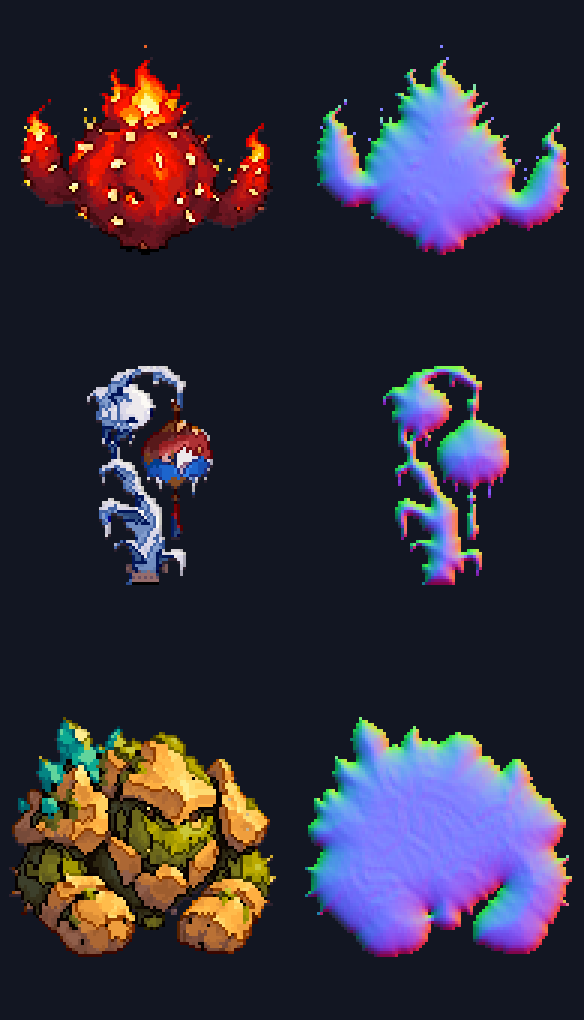
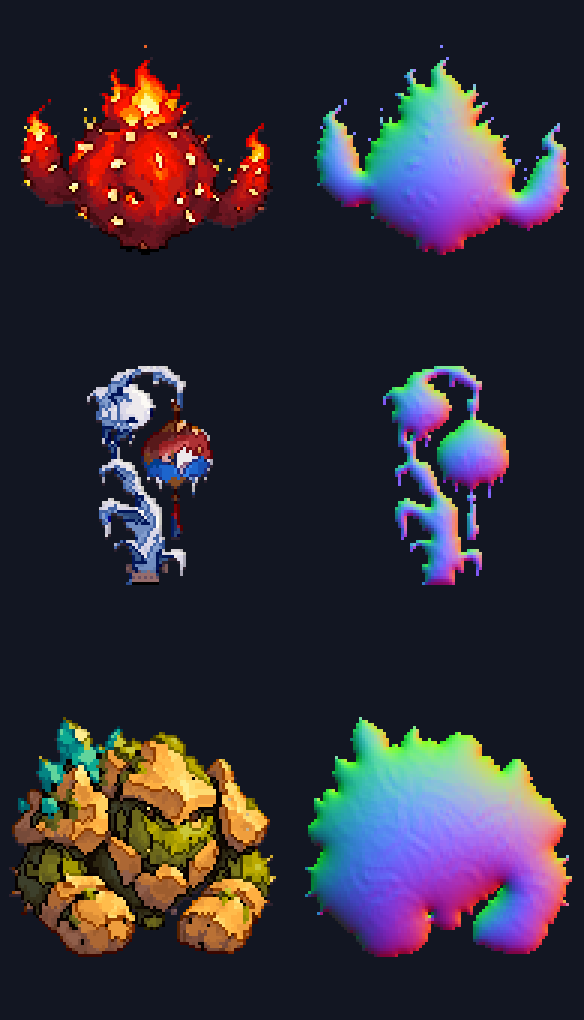
fix: 조명 시험 — 빛 · 그림자가 직선으로 끊기던 것을 막 부풀리기 높이 · 바이어 섞음으로
- tools/pixel/big/normalmap.mjs(heightOf · normalsOf · shade) 공용으로 빼고 normallab 이 씀
- 조사 문서 · 비교 그림(ember_smooth_compare.png) 갱신

diff --git a/docs/superpowers/specs/2026-10-22-v2-normal-map-lighting-research.md b/docs/superpowers/specs/2026-10-22-v2-normal-map-lighting-research.md
@@ -5,7 +5,8 @@
 
 ## 1. 결론
 
-- **적용 가능하다.** 우리 식물 그림(96×112 도트 · 대기 64장 + 깜빡임 4장 · 앞뒤 두 층)에서 노멀맵을 **그림만으로 바로** 만들 수 있다(새 그림 · 내려받기 없음). 실루엣 안쪽까지의 거리로 '부푼 높이'를 만들고 기울기를 재는 방식이라 45종 · 생장 3단계에 같은 도구가 그대로 먹힌다.
+- **적용 가능하다.** 우리 식물 그림(96×112 도트 · 대기 64장 + 깜빡임 4장 · 앞뒤 두 층)에서 노멀맵을 **그림만으로 바로** 만들 수 있다(새 그림 · 내려받기 없음). 실루엣 안을 막처럼 부풀린 높이(`tools/pixel/big/normalmap.mjs`)로 기울기를 재는 방식이라 45종 · 생장 3단계에 같은 도구가 그대로 먹힌다.
+  - 처음엔 실루엣 거리로 둥글렸는데 가운데가 평평하고 가장자리만 가팔라 빛 · 그림자가 직선으로 뚝 끊겼음(2026-10-22 사용자 "앰버캑터 뭔가 그림자랑 빛이 너무 직선으로 뚝 끊겨") → 막 부풀리기(포아송) + 빛 단계를 바이어 무늬로 섞어 부드럽게.
 - **사양 부담은 작다 — 단, 늘 켜 두는 빛은 미리 굽고, 순간 빛만 실행 중에 계산한다.**
   - 늘 켜진 빛(엠버캑터 불 · 초롱바인 등불 · 번개 · 결정)은 64장 그림에 **미리 구워** 넣으면 실행 비용이 0이다(색 변종은 색 변종 그림을 구울 때 빛 색도 같이 바꿈).
   - 공격 · 피격 · 상태 효과처럼 잠깐 생기는 빛은 그때만 칸마다 계산한다. 식물 한 장에 PC 0.3~0.5ms, 느린 휴대폰 흉내(CPU ×4) 1.1~2.2ms.
@@ -16,16 +17,17 @@
 | 방법 | 모양 | 우리 쪽 장단점 |
 |---|---|---|
 | 밝기 = 높이(Sobel · NormalMap Online · Laigter 기본) | 밝은 곳을 튀어나온 곳으로 봄 | 빠르고 무료. 그려 둔 그늘이 '골', 반짝임이 '뿔', 테두리가 '턱'으로 읽힘(우리 식물은 명암이 그려져 있어 그대로 쓰면 어색) |
-| 실루엣 거리 둥글림(이번 시험) | 가장자리에서 안쪽으로 갈수록 부푼 모양 + 밝기 잔 결 조금 | 장마다 같은 규칙이라 깜빡임 없음 · 비용 작음 · 둥근 몸(선인장 · 버섯 · 바위)에 잘 맞음. 납작한 잎 · 긴 꼬리는 너무 '빵빵'할 수 있음(종마다 둥글림 반지름만 조정) |
+| 실루엣 거리 둥글림(첫 시험) | 가장자리에서 일정 거리까지만 부풂 | 가운데가 평평해 빛 · 그림자가 직선으로 끊김 — 버림 |
+| 실루엣 막 부풀리기(지금 시험) | 실루엣 안을 풍선처럼 부풀린 높이(포아송 방정식) + 밝기 잔 결 조금 | 장마다 같은 규칙이라 깜빡임 없음 · 몸 전체가 둥글게 이어져 빛이 부드럽게 넘어감. 납작한 잎 · 긴 꼬리는 너무 '빵빵'할 수 있음(종마다 부풀림 세기 조정). 장당 PC 약 6ms라 내보낼 때 미리 만듦 |
 | AI가 모양을 읽음(Marigold-Normals 등 공개 모델 · Sprite-AI 유료) | 그림에서 3D 모양을 추정 | 품질 가장 좋음. 컨셉 원화(큰 그림)에 한 번 돌리고 지금 변환 도구의 장마다 휘기를 그대로 적용하면 64장이 맞음. 모델 설치 · 라이선스 확인 필요 |
 | 손으로(SpriteIlluminator · SpriteLamp) | 높이를 직접 칠함 | 정확하지만 그림 손 작업 — 1인 개발 원칙(그림은 AI가 전부)과 안 맞음 |
 
-권장 = **실루엣 둥글림으로 시작**, 주인공급 몇 종만 나중에 AI 노멀로 올림.
+권장 = **실루엣 막 부풀리기로 시작**, 주인공급 몇 종만 나중에 AI 노멀로 올림.
 
 ## 3. 그리는 방식
 
 - 지금 그림은 캔버스 2D. 식물만 따로 칸을 읽는 길이 이미 있음(`art/sprites.js plantLayer` — 상태 효과가 씀). 그 위에 노멀맵 빛을 더하면 됨.
-- 빛 공식 = 원래 색 × (어둠 + 빛 색 × 세기) — 그림에 명암이 이미 그려져 있어 '처음부터 다시 칠하기'가 아니라 **그 위에 빛을 얹는** 방식. 빛 세기는 몇 단계로 끊어 도트 느낌 유지.
+- 빛 공식 = 원래 색 × (어둠 + 빛 색 × 세기) — 그림에 명암이 이미 그려져 있어 '처음부터 다시 칠하기'가 아니라 **그 위에 빛을 얹는** 방식. 빛 세기는 14단계로 끊되 4×4 바이어 무늬로 단계 사이를 섞음(단계만 끊으면 띠가 생겨 직선처럼 보임).
 - 불꽃 · 등불처럼 스스로 빛나는 칸은 자기 빛을 안 받음(눈이 부신 듯 그대로).
 - 빛이 많고 늘 켜져야 하는 장면(밤 경기장 전체 조명 등)이 생기면 WebGL(그래픽 칩)로 옮기는 것이 맞음 — 이때만 그리는 구조를 크게 바꿈.
 
@@ -51,10 +53,11 @@
 |---|---|---|---|
 | 식물 한 장 · 빛 1개(읽기 + 계산 + 쓰기 + 붙이기) | 0.26ms | 1.1ms | 1.9ms |
 | 식물 한 장 · 빛 4개 | 0.49ms | 2.2ms | 4.0ms |
-| 노멀맵 한 장 만들기(처음 한 번) | 1.3~9ms | 12.5ms | 51ms |
+| 노멀맵 한 장 만들기 — 첫 시험(거리 둥글림) | 1.3~9ms | 12.5ms | 51ms |
+| 노멀맵 한 장 만들기 — 막 부풀리기(지금) | 약 6ms(Node) | — | — |
 
 - 지금 전투 화면은 CPU ×4에서 1초 30장 · 한 장 그리는 데 10.2ms(홈 11.9ms, `tools/shots/perfcheck.mjs`). 1초 30장이면 한 장에 33ms까지 쓸 수 있으므로, 순간 빛을 두 식물에 동시에 켜도(+4.4ms) 여유 있음. 다만 발열 · 배터리(2026-10-17 발열 점검)를 생각해 **늘 켜진 빛은 미리 굽고, 실행 중 계산은 효과가 있는 동안만**.
-- 노멀맵은 시트(68장) 하나 PC 약 90ms · 느린 휴대폰 1초 안팎 → 게임 중에 한꺼번에 만들지 말고 **내보낼 때 미리 만들어 PNG로 두거나**(시트당 그림 크기만큼 늘어남 — 45종 × 3단계 약 3~5MB 추가 예상), 필요한 장만 그때그때 만들어 기억.
+- 노멀맵은 막 부풀리기로 시트(68장) 하나 PC 약 0.4초 → 게임 중에 만들지 말고 **내보낼 때(`convert.mjs --export`) 미리 만들어 PNG로 둠**(시트당 그림 크기만큼 늘어남 — 45종 × 3단계 약 3~5MB 추가 예상). 늘 켜진 빛만 쓰는 종은 빛까지 구워 두면 노멀맵 PNG도 필요 없음.
 - 메모리: 장마다 방향 3개(작은 정수로 두면 장당 약 32KB) — 화면에 나온 식물만.
 
 ## 6. 해 보면 좋은 순서(제안)

diff --git a/docs/CHANGELOG.md b/docs/CHANGELOG.md
@@ -2,6 +2,13 @@
 
 > CLAUDE.md에서 분리한 전체 개발 로그. 최신 작업이 맨 위. 과거 맥락이 필요할 때만 읽으세요.
 
+### 2026-10-22 (212) — 조명 시험: 빛 · 그림자가 직선으로 끊기던 것 → 부드럽게
+
+- 사용자 ‘앰버캑터 뭔가 그림자랑 빛이 너무 직선으로 뚝 끊겨’.
+- **까닭:** 노멀맵 높이를 실루엣 거리로 둥글려 가운데가 평평하고 가장자리만 가팔랐음(면 방향이 가장자리에서만 바뀜) + 빛 세기를 6단계로 끊어 띠가 생김.
+- **고침:** 높이 = 실루엣 안을 막처럼 부풀림(포아송 방정식을 거친 판 → 고운 판 SOR로 풂, 제곱근으로 둥글게) → 몸 전체가 둥글게 이어짐 · 빛 세기 14단계 + 4×4 바이어 무늬로 단계 사이를 섞음. 공용 모듈 `tools/pixel/big/normalmap.mjs`(heightOf · normalsOf · shade)로 빼고 `normallab.mjs`가 씀.
+- 노멀맵 만드는 시간 장당 약 6ms(Node)로 늘어 시트당 0.4초 → 게임 중이 아니라 내보낼 때 미리 만드는 쪽으로(조사 문서 갱신). 시험 영상 · 멈춘 장 · 노멀맵 다시.
+
 ### 2026-10-22 (211) — 식물 노멀맵 조명 조사(게임에는 아직 안 넣음)
 
 - 사용자 ‘이것처럼 다른 식물들도 적용할 수 있나? 앰버캑터 얘도 자신의 불에 빛 영향을 받고 그랬음 좋겠는데 각 공격과 피격 등이나 여러가지로. 적용가능한 곳 알아보고 조사해 · 그리고 이거 하면 사양이 많이 필요한지도 알아봐봐’(도트 우주선 노멀맵 그림).
